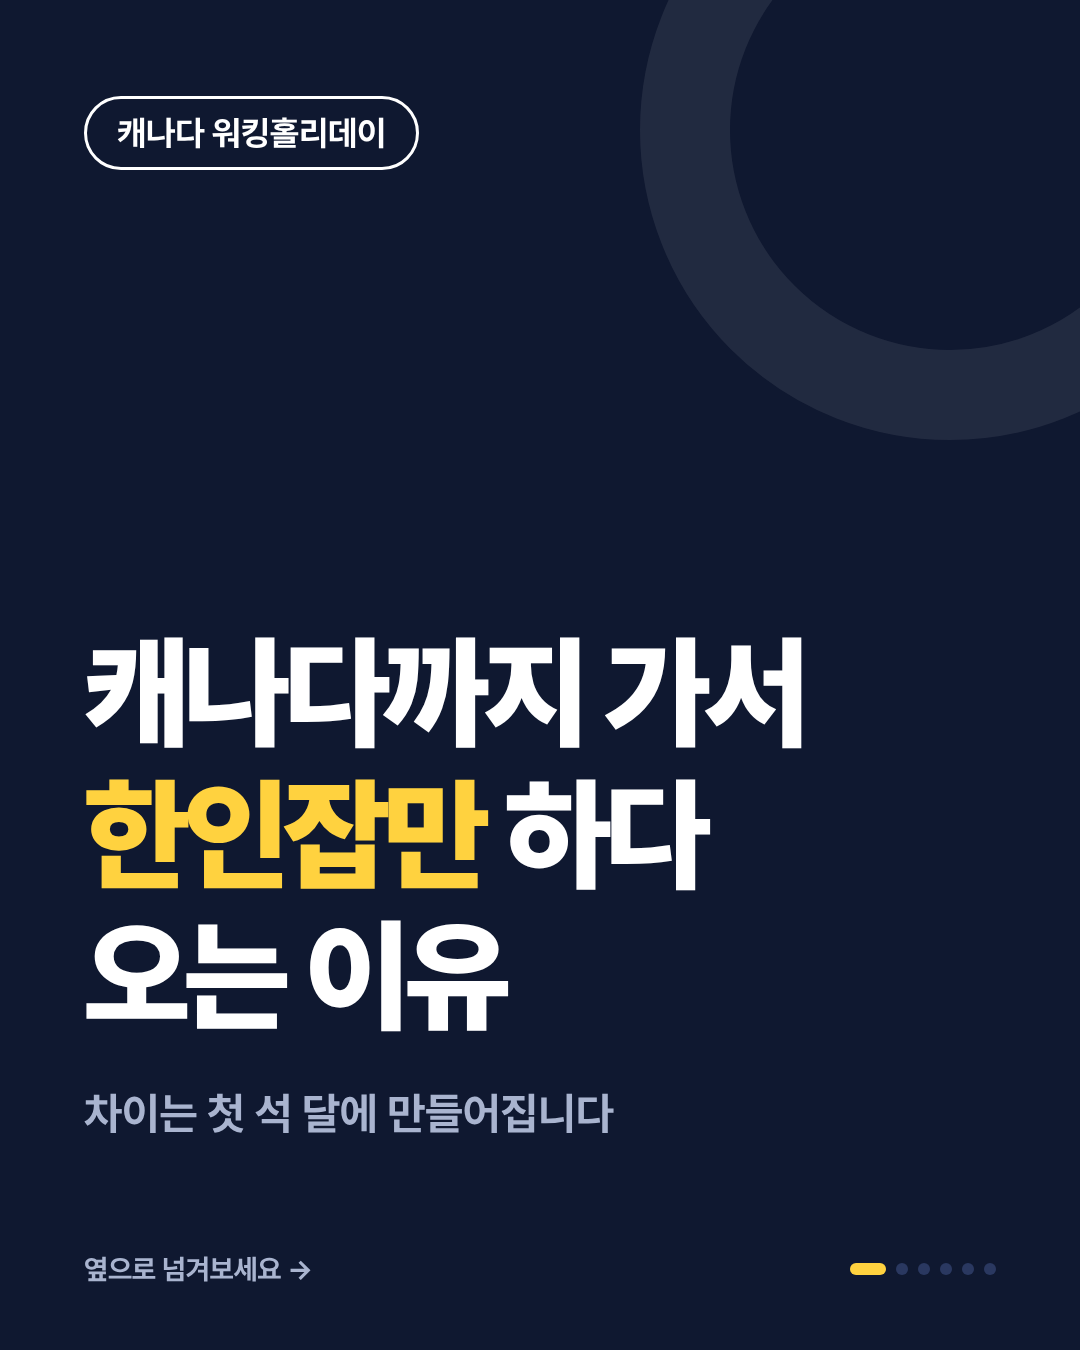
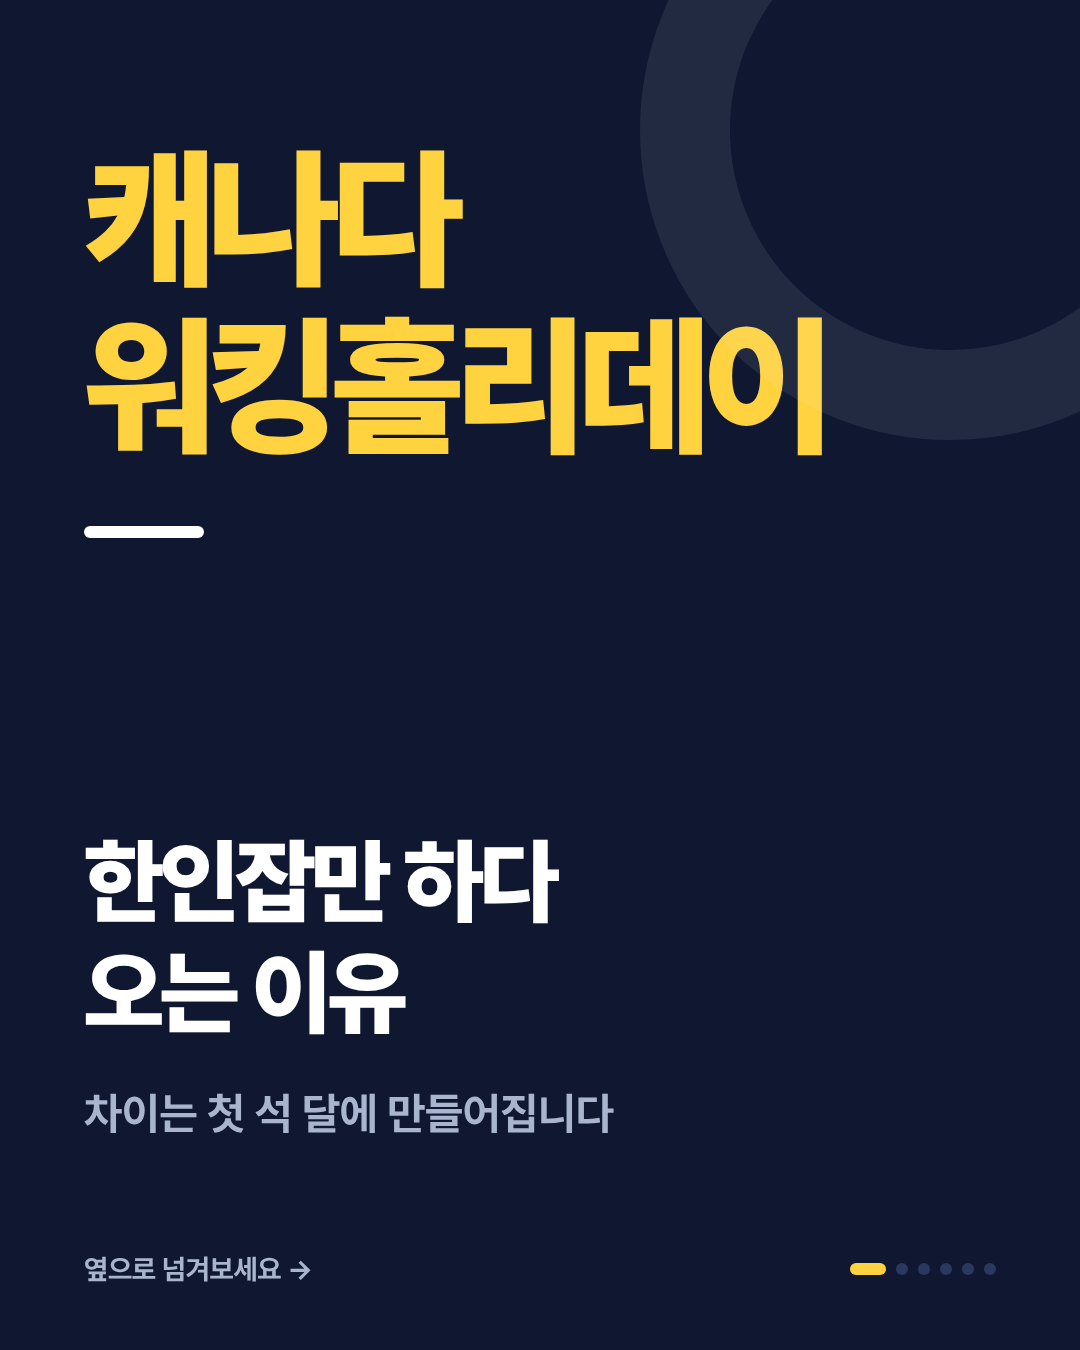
Make 'Canada working holiday' the dominant headline on card news covers
Claude-Session: https://claude.ai/code/session_01HkBHzhHaznteiosUDG1xkf

Changed region(s): [[0.0611, 0.4667, 0.7639, 0.7778], [0.0611, 0.0622, 0.7639, 0.3422], [0.0611, 0.3733, 0.1833, 0.4044]]

diff --git a/plans/canada-workingholiday-esl-cardnews/build.js b/plans/canada-workingholiday-esl-cardnews/build.js
@@ -20,7 +20,7 @@ const cta = (title) => ({
 
 const sets = {
   A: [
-    { type: 'cover', tag: '2027 캐나다 워킹홀리데이', title: ['인비 기다리는 동안', '<m>지금 해둘 3가지</m>'], sub: '준비한 사람이 먼저 출발합니다' },
+    { type: 'cover', kw: '2027 캐나다<br>워킹홀리데이', hook: '인비 기다리는 동안<br>지금 해둘 3가지', sub: '준비한 사람이 먼저 출발합니다' },
     { type: 'list', kicker: '2027 시즌 현황', title: '지금까지 확인된 것', items: [
       ['신청 연령', '만 18세 ~ 35세'],
       ['풀(Pool) 오픈일', '미발표 · 추후 공지'],
@@ -44,7 +44,7 @@ const sets = {
     cta('2027 워홀 어학 플랜,<br>디테일하게 알려드립니다'),
   ],
   B: [
-    { type: 'cover', tag: '캐나다 워킹홀리데이', title: ['캐나다까지 가서', '<m>한인잡만</m> 하다', '오는 이유'], sub: '차이는 첫 석 달에 만들어집니다' },
+    { type: 'cover', kw: '캐나다<br>워킹홀리데이', hook: '한인잡만 하다<br>오는 이유', sub: '차이는 첫 석 달에 만들어집니다' },
     { type: 'list', kicker: '현실', title: '현지 일자리는<br>영어에서 갈립니다', items: [
       ['영문 이력서', '캐나다 방식은 형식부터 다릅니다'],
       ['인터뷰', '짧은 대화로 채용이 결정됩니다'],
@@ -68,7 +68,7 @@ const sets = {
     cta('내 영어 수준에 맞는<br>어학 플랜을 알려드립니다'),
   ],
   C: [
-    { type: 'cover', tag: '캐나다 워킹홀리데이', title: ['캐나다 워홀', '<m>첫 3개월,</m>', '얼마나 들까?'], sub: '출국 전에 꼭 계산해 볼 항목들' },
+    { type: 'cover', kw: '캐나다<br>워킹홀리데이', hook: '첫 3개월,<br>얼마나 들까?', sub: '출국 전에 꼭 계산해 볼 항목들' },
     { type: 'list', kicker: '비용 항목', title: '초기 비용은<br>네 가지로 나뉩니다', items: [
       ['어학연수', '학비, 등록비, 교재비'],
       ['숙소', '홈스테이, 기숙사, 룸렌트'],
@@ -114,7 +114,7 @@ h2{font-size:84px;font-weight:900;line-height:1.2;margin-top:36px;letter-spacing
 .note{margin-top:26px;font-size:27px;color:${t.sub}}
 .cover{background:${t.coverBg};color:${t.coverInk}}
 .cover .tag{align-self:flex-start;font-size:34px;font-weight:700;border:3px solid ${t.coverInk};padding:14px 30px;border-radius:999px}
-.cover h1{font-size:122px;font-weight:900;line-height:1.16;letter-spacing:-0.045em;margin-top:auto}
+.cover .kw{font-size:152px;font-weight:900;line-height:1.1;letter-spacing:-0.05em;color:${t.coverMark};margin-top:40px}.cover .bar{width:120px;height:12px;border-radius:6px;background:${t.coverInk};margin-top:56px}.cover h1{font-size:92px;font-weight:900;line-height:1.2;letter-spacing:-0.04em;margin-top:auto}
 .cover h1 m{color:${t.coverMark}}
 .cover .sub{font-size:44px;font-weight:700;color:${t.coverSub};margin-top:40px;margin-bottom:60px}
 .cover .foot{color:${t.coverSub}}
@@ -133,8 +133,8 @@ function html(key, card, idx, total) {
   const dots = `<div class="dots">${Array.from({ length: total }, (_, i) => `<i class="${i === idx ? 'on' : ''}"></i>`).join('')}</div>`;
   let body;
   if (card.type === 'cover') {
-    body = `<div class="wrap cover"><div class="ring"></div><div class="tag">${card.tag}</div>
-      <h1>${card.title.join('<br>')}</h1><div class="sub">${card.sub}</div>
+    body = `<div class="wrap cover"><div class="ring"></div><div class="kw">${card.kw}</div><div class="bar"></div>
+      <h1>${card.hook}</h1><div class="sub">${card.sub}</div>
       <div class="foot"><span>옆으로 넘겨보세요 →</span>${dots}</div></div>`;
   } else if (card.type === 'list') {
     body = `<div class="wrap"><div class="kicker">${card.kicker}</div><h2>${card.title}</h2>
